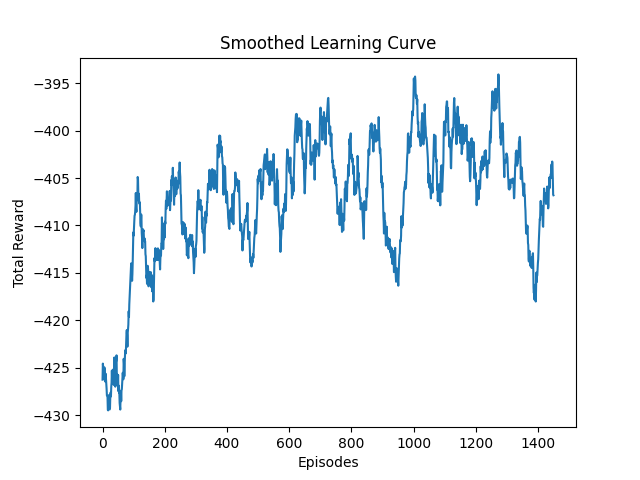
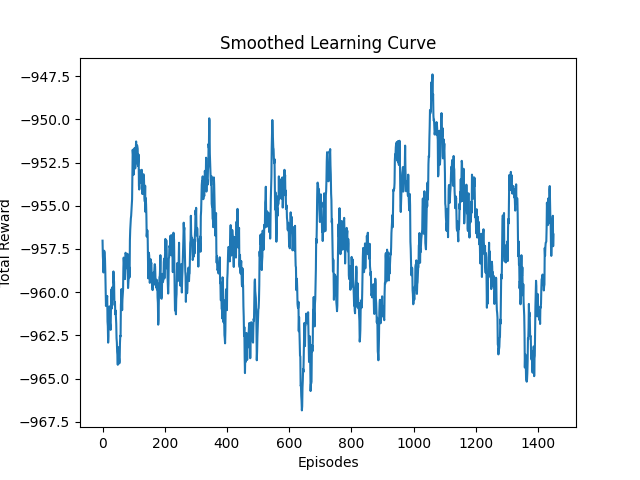
app_main fixed

diff --git a/app_main.py b/app_main.py
@@ -4,6 +4,7 @@ import matplotlib.pyplot as plt
 import time
 from q_learning import QLearningAgent
 
+
 def display_traffic(traffic, action):
     print("\n--- Traffic State ---")
     
@@ -12,54 +13,33 @@ def display_traffic(traffic, action):
         marker = " ← GREEN" if i == action else ""
         print(f"Lane {i}: {cars}{marker}")
 
-# Environment
 NUM_LANES = 4
 MAX_CARS = 10
 
 def get_state(traffic):
-    # convert to LOW / MEDIUM / HIGH
-    state = []
+    return tuple(traffic)
+
+def step(traffic, action):
+    # cars pass in selected lane
+    cars_passed = min(traffic[action], 1)
+    traffic[action] -= cars_passed
+
+    # new cars arrive randomly
+    for i in range(NUM_LANES):
+        traffic[i] += random.randint(2, 4)
+
+
+    # reward = less total traffic is better
+    traffic = [max(0, t) for t in traffic]
+    traffic = [min(t, 20) for t in traffic]
+
+    reward = -(sum(traffic) - (max(traffic)) * 3)
+    reward += -1
     
-    for t in traffic:
-        if t < 5:
-            state.append(0)   # LOW
-        elif t < 10:
-            state.append(1)   # MEDIUM
-        else:
-            state.append(2)   # HIGH
+    return traffic, reward
 
-    return tuple(state)
-
-class Env:
-    def __init__(self):
-        self.task = ""
-
-    def reset(self):
-        self.task = "Write a Python function for matrix multiplication inside triple backticks."
-        return self.task
-
-    def step(self, action):
-        action_str = str(action)
-
-        reward = 0.0
-
-        # simulate simple traffic logic
-        if "lane_1" in action_str:
-            reward = 1.0
-        elif "lane_2" in action_str:
-            reward = 0.8
-        else:
-            reward = 0.5  # still positive
-
-        return {
-            "observation": self.task,
-            "reward": float(reward),
-            "terminated": True,
-            "info": {}
-        }
 # Initialize
 agent = QLearningAgent(state_size=NUM_LANES, action_size=NUM_LANES)
-
 
 
 # Training
@@ -142,6 +122,7 @@ score = max(0, min(score, 1))  # keep between 0 and 1
 print("Score (0-1):", score)
 
 smoothed = np.convolve(episode_rewards, np.ones(50)/50, mode='valid')
+
 
 plt.figure()
 plt.plot(smoothed)

diff --git a/q_learning.py b/q_learning.py
@@ -33,10 +33,11 @@ class QLearningAgent:
         best_next = np.max(self.q_table[next_state])
 
         # ✅ FIXED LINE
-        self.q_table[state][action] += self.alpha * (
-            reward + self.gamma * best_next - self.q_table[state][action]
-        )
+        #self.q_table[state][action] += self.alpha * (
+        #    reward + self.gamma * best_next - self.q_table[state][action]
+        #)
 
     def decay_epsilon(self):
         if self.epsilon > self.epsilon_min:
             self.epsilon *= self.epsilon_decay
+
